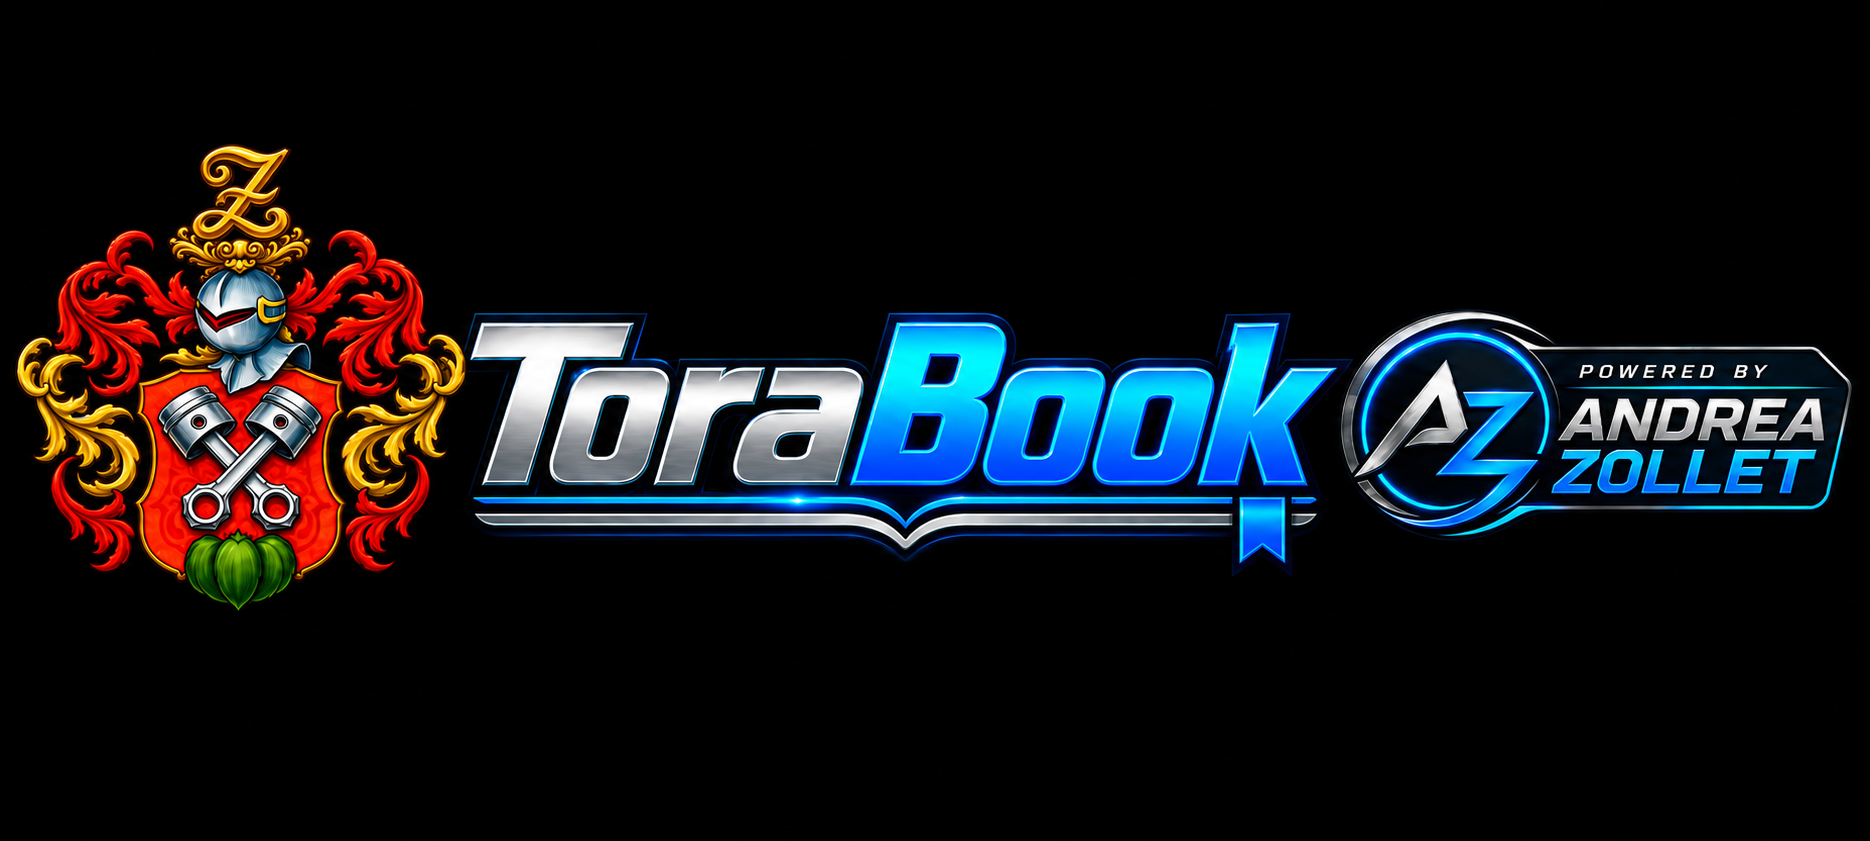
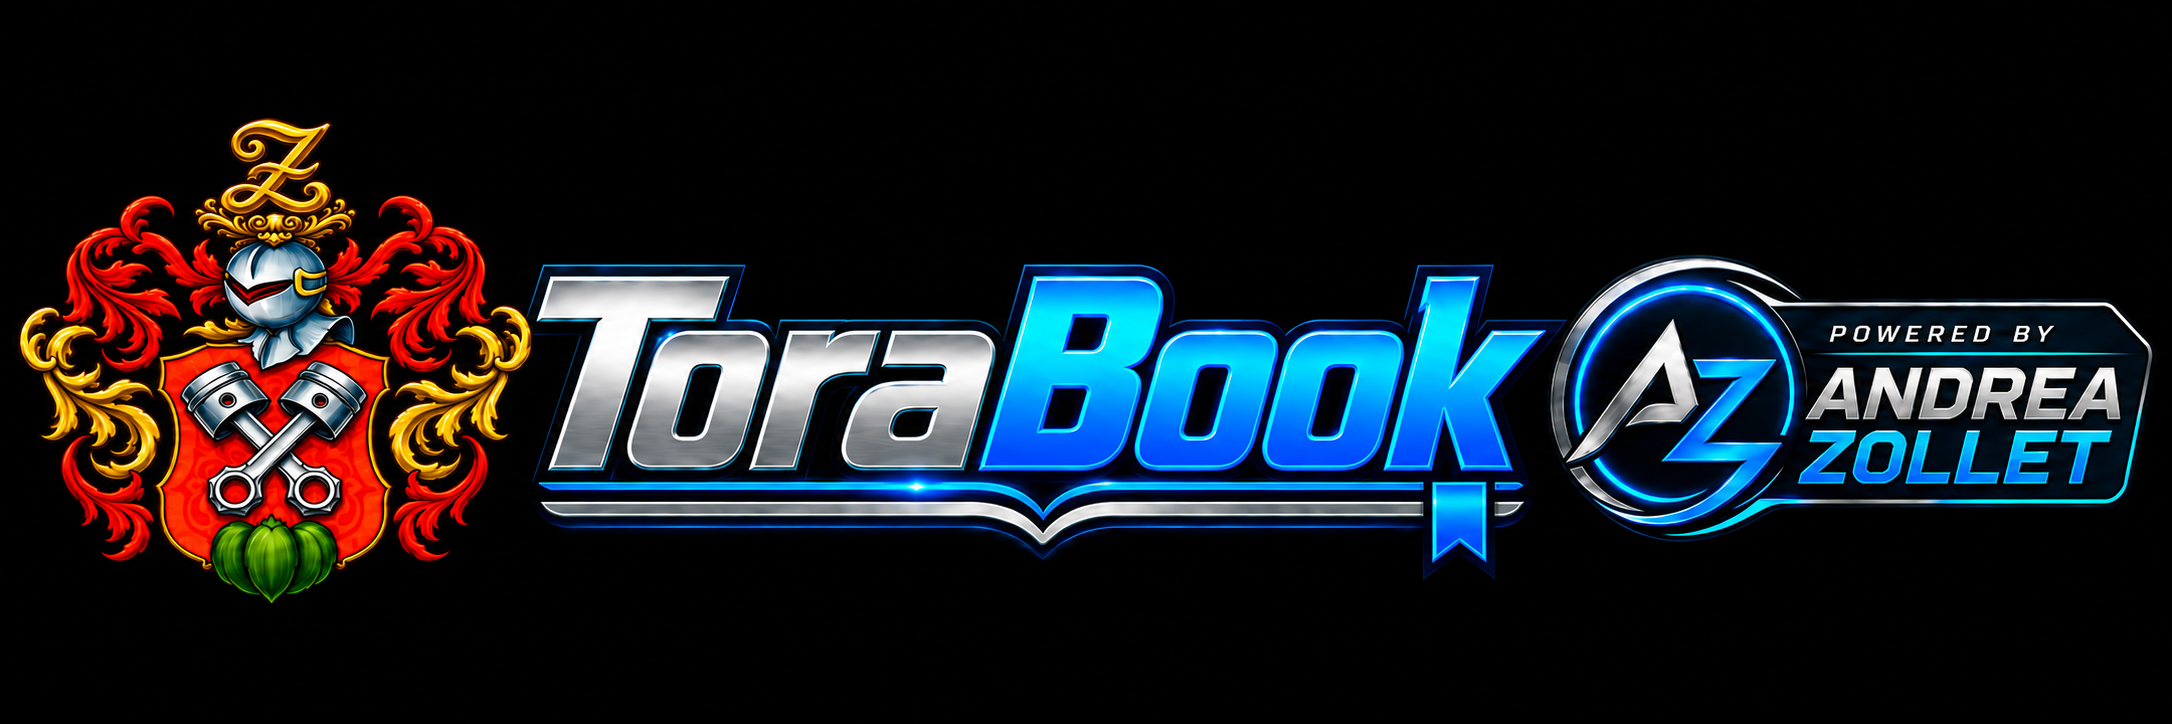
Add files via upload

Changed region(s): [[0.0, 0.1519, 0.9925, 0.8204]]

diff --git a/service-worker.js b/service-worker.js
@@ -1,4 +1,4 @@
-const CACHE_NAME = "diario-autista-v31-header-torabook";
+const CACHE_NAME = "diario-autista-v32-header-crop";
 const PRECACHE = [
   "./",
   "./index.html",
